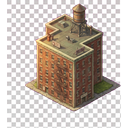
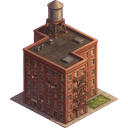
1950s art: ART-07 complete — all 58 building sprites shipped (ART-01..07 done)
- generated + keyed + placed + compiled 10 sprites: town_flats_4 regen
  (accepted) + 9 remaining urban flats (arctic/trop/garden/offices_tall)
- QC: 10/10 accepted, 0 pure-magenta leftover px in every master
- only the 6 bonus match-3 gems (ART-08) remain

diff --git a/docs/1950s-art-progress.md b/docs/1950s-art-progress.md
@@ -28,9 +28,9 @@ count in the keyer output is the early tell for a checkerboard/vignetted
 backdrop. QC also includes a magenta-leftover pixel probe (pure-magenta
 pixels with alpha>200 must be 0 in every shipped master).
 
-**Manifest: 48 buildings compiled** — 20 core/depots/town-center + 10 more
-residential (ART-05 complete) + 12 commercial (ART-06 complete) + 6 urban
-flats (ART-07 6/16; `town_flats_4` rejected in QC, reverted to fallback).
+**Manifest: 58 buildings compiled — ALL building restyles complete**
+(ART-01…ART-07 done): 20 core/depots/town-center + 10 more residential +
+12 commercial + 16 urban flats. Only the 6 bonus match-3 gems (ART-08) remain.
 
 ## DONE (1950s Blizzard-style, compiled into `assets/buildings/`)
 
@@ -88,40 +88,27 @@ variant). `town_house_pool` gets its 1950s restyle under ART-05 (it is in the
 variant list); `town_house_c` is an extra variant not in the ART-05/06/07
 lists and keeps its TTD art.
 
-### TICKET-ART-07 — Urban flats (16): 6 done
+### TICKET-ART-07 — Urban flats (16): COMPLETE
 - [x] `town_flats` — brownstone, red-tile roof, fire escape
 - [x] `town_flats_2` — pink corner flat, awning delicatessen
-- [ ] `town_flats_4` — **PENDING regen** — model painted a checkerboard backdrop (caught in QC; reverted to shared-sheet fallback)
+- [x] `town_flats_4` — regen accepted (first gen painted a checkerboard backdrop; rejected, reverted to fallback, regenerated with the anti-checkerboard clause) — brick tenement, rooftop water tower
 - [x] `town_flats_grey` — grey stone block, columned bay
 - [x] `town_flats_townhouse_tall` — tall cream flat, dormer windows
 - [x] `town_small_flat_1x1_1` — orange two-storey, red awnings
 - [x] `town_small_flat_1x1_2` — grey steep-roof flat, antenna
-- [ ] `town_flats_arctic_1x1_1`
-- [ ] `town_flats_arctic_1x1_2`
-- [ ] `town_flats_arctic_2x1_1`
-- [ ] `town_flats_arctic_2x1_2`
-- [ ] `town_flats_trop_1x1_4`
-- [ ] `town_flats_trop_1x1_7`
-- [ ] `town_flats_trop_2x1_6`
-- [ ] `town_townhouse_garden_3`
-- [ ] `town_offices_tall`
+- [x] `town_flats_arctic_1x1_1` — tall snow-topped flat, teal accent
+- [x] `town_flats_arctic_1x1_2` — low wide snowy flat, rooftop antennae
+- [x] `town_flats_arctic_2x1_1` — long snowy flat block
+- [x] `town_flats_arctic_2x1_2` — wide arctic flat, green shutters
+- [x] `town_flats_trop_1x1_4` — coral flat, bougainvillea
+- [x] `town_flats_trop_1x1_7` — coral flat, palm tree
+- [x] `town_flats_trop_2x1_6` — teal/cream tropical block, corner tower
+- [x] `town_townhouse_garden_3` — pair of red row-homes, veg beds
+- [x] `town_offices_tall` — tall tan tower, columned base
 
 ## PLACEHOLDERS — still on the shared sheet (swap list, in ticket order)
 
-**16 images remain ≈ 2 more user messages** (10-per-message budget):
-1 regen + 9 urban + 6 gems.
-
-### TICKET-ART-07 — Urban flats (remaining 10)
-- [ ] `town_flats_4` *(regen — checkerboard backdrop, see ART-07 note)*
-- [ ] `town_flats_arctic_1x1_1`
-- [ ] `town_flats_arctic_1x1_2`
-- [ ] `town_flats_arctic_2x1_1`
-- [ ] `town_flats_arctic_2x1_2`
-- [ ] `town_flats_trop_1x1_4`
-- [ ] `town_flats_trop_1x1_7`
-- [ ] `town_flats_trop_2x1_6`
-- [ ] `town_townhouse_garden_3`
-- [ ] `town_offices_tall`
+**6 images remain = 1 final user message:** the match-3 gems (ART-08 bonus).
 
 ### [BONUS] TICKET-ART-08 — match-3 gems (6) → `src/assets/gems/<cargo>.png`
 - [ ] `grain.png` — golden wheat sheaf in a brass cogwheel
@@ -147,5 +134,6 @@ fallback, so the game is complete at every stage.
 ## Verification status
 - [x] Phase 0: B0 (dist copy + e2e spec), B2 (lanczos3), B3.1 (trim), B3.2 (recomputePad)
 - [x] Phase 1: B1a/B1b/B1c compiled; town_house_c in pool (44 variants)
+- [x] Phase 2: ART-01…ART-07 complete — 58 sprites in manifest; ART-08 gems pending final batch
 - [x] `npm run typecheck && npm run lint && npm test` — green (3 pre-existing rival-AI sim failures, verified identical on base commit)
 - [ ] in-browser visual pass of all new buildings at 3 zooms (e2e spec covers manifest/200s + no fallback warnings; runs in CI — sandbox has no browser)
